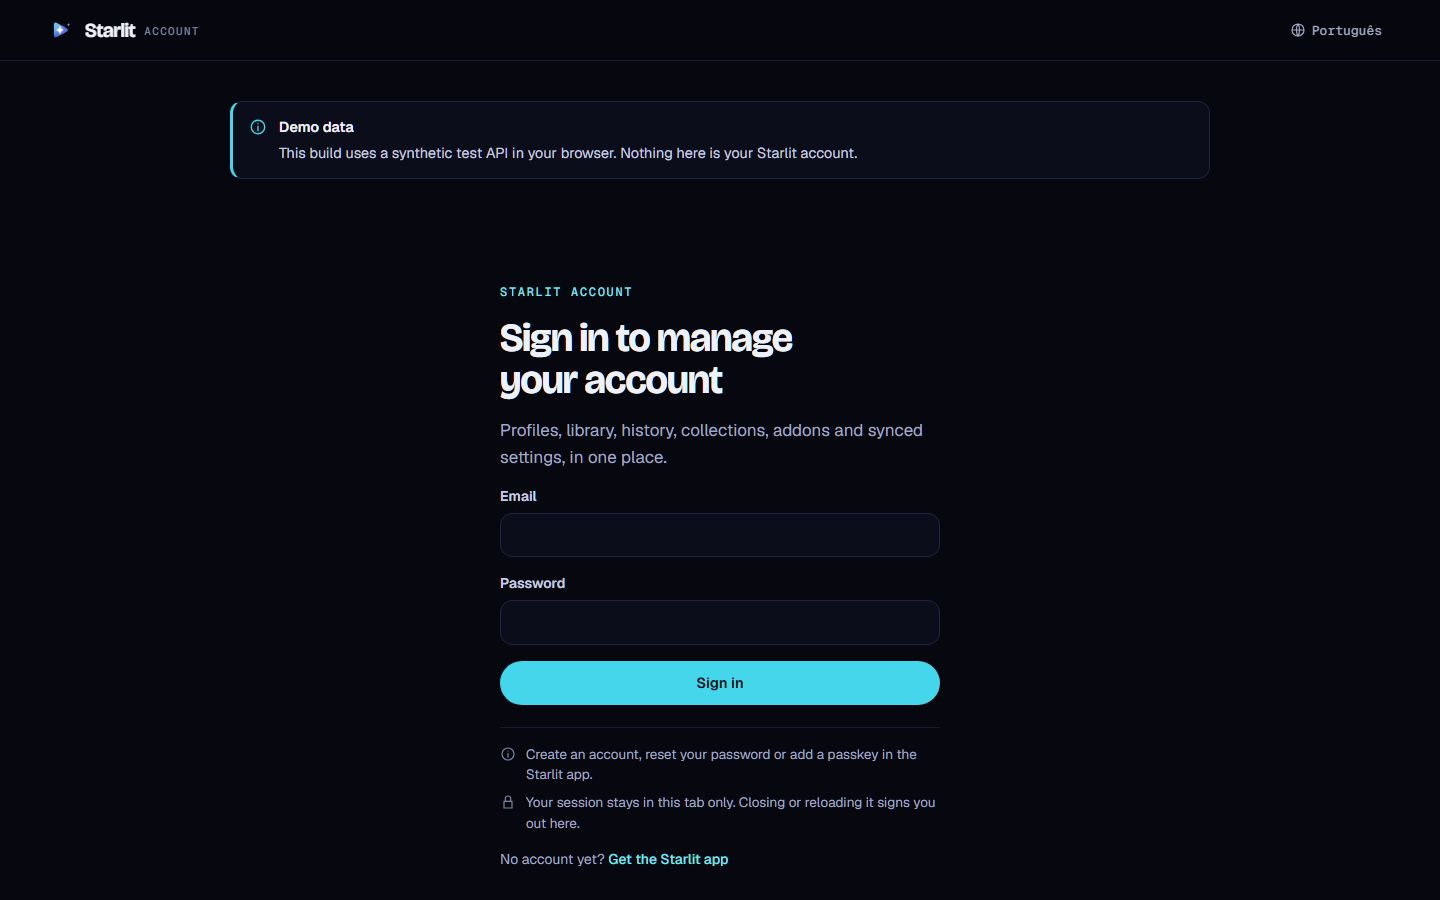
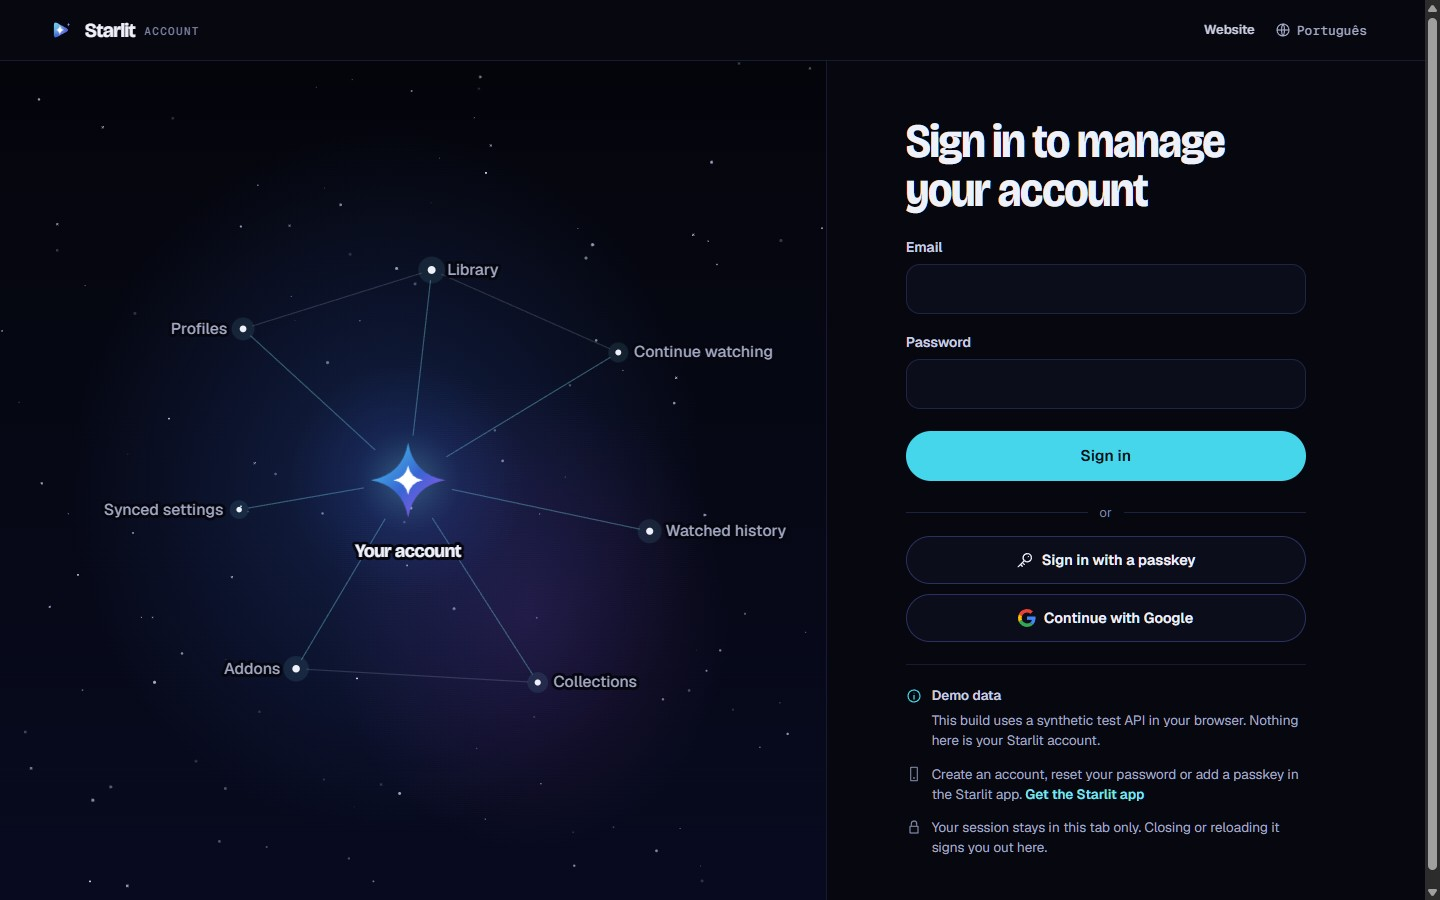
feat(account): add responsive constellation sign-in (#11)

diff --git a/account/src/styles/account.css b/account/src/styles/account.css
@@ -452,19 +452,104 @@ button, input, select, textarea { font: inherit; color: inherit; }
 .pv-square { aspect-ratio: 1; }
 .preview-large { display: grid; gap: 10px; }
 
-/* ------------------------------------------------------------ sign in, choose profile */
-.signin { display: grid; place-items: start center; min-height: calc(100dvh - 160px); padding: clamp(24px, 6vh, 96px) 0 32px; }
-.signin-card { width: 100%; max-width: 440px; display: grid; gap: 16px; }
-.signin-card .page-title { font-size: clamp(30px, 6vw, 40px); }
+/* ------------------------------------------------------------ sign in
+   The night sky is the one bold element; the form beside it stays quiet.
+   Phones: a short sky band above the form. 1024 px and up: the sky fills
+   the left of the screen and the form sits in a column on the right. */
+.main:has(> .view > .signin) { padding: 0; }
+.view:has(> .signin) { max-width: none; }
+.signin { display: grid; align-content: start; min-height: calc(100dvh - 61px); }
+
+.signin-sky {
+  position: relative;
+  overflow: hidden;
+  height: 176px;
+  margin: 16px var(--gutter) 0;
+  border: 1px solid var(--line);
+  border-radius: 22px;
+  background:
+    radial-gradient(55% 60% at 47% 50%, rgba(57, 101, 212, .26), transparent 70%),
+    radial-gradient(35% 40% at 64% 66%, rgba(178, 80, 239, .14), transparent 70%),
+    linear-gradient(180deg, #04050b 0%, #080b20 100%);
+}
+.sky-field { position: absolute; inset: 0; width: 100%; height: 100%; fill: #d3dcff; }
+.sky-map { position: absolute; left: 0; top: 50%; width: 100%; height: auto; transform: translateY(-50%); overflow: visible; }
+.sky-line { fill: none; stroke: rgba(127, 227, 242, .34); stroke-width: 1.2; stroke-linecap: round; }
+.sky-chord { stroke: rgba(162, 168, 195, .22); }
+.sky-halo { fill: #7fe3f2; fill-opacity: .1; }
+.sky-core { fill: #eef0fa; }
+/* A dark outline under each label keeps lines from running through the text. */
+.sky-label { display: none; fill: #a2a8c3; font: 500 16px var(--sans); letter-spacing: .005em; paint-order: stroke; stroke: #05060f; stroke-width: 6px; stroke-linejoin: round; }
+.sky-label-hub { fill: #eef0fa; font: 700 19px var(--display); letter-spacing: -.01em; }
+.sky-hub { transform-box: fill-box; transform-origin: center; }
+
+.signin-panel { display: grid; align-items: center; padding: 32px var(--gutter) 72px; }
+.signin-card { width: 100%; max-width: 400px; margin: 0 auto; display: grid; gap: 22px; }
+.signin-title { font-size: clamp(34px, 2vw + 22px, 48px); font-stretch: 92%; line-height: 1.02; letter-spacing: -.022em; }
 .signin-status:empty { display: none; }
-.signin-notes { display: grid; gap: 8px; margin-top: 6px; padding-top: 16px; border-top: 1px solid var(--line); font-size: 13.5px; color: var(--muted); }
+.signin-form { display: grid; gap: 18px; }
+.signin-form .input { min-height: 50px; padding: 12px 14px; border-radius: 14px; font-size: 16px; }
+.signin-form .btn { min-height: 50px; margin-top: 4px; font-size: 15.5px; }
+.signin-alt { display: grid; gap: 10px; }
+.signin-alt .btn { width: 100%; min-height: 48px; }
+.g-mark { flex: none; }
+.divider { display: flex; align-items: center; gap: 12px; margin-bottom: 4px; color: var(--dim); font-size: 13px; }
+.divider::before, .divider::after { content: ""; flex: 1; height: 1px; background: var(--line-2); }
+
+/* Notes and the shell's notices, set small under the form. */
+.signin-about { display: grid; gap: 14px; padding-top: 20px; border-top: 1px solid var(--line); }
+.signin-banners .banners { max-width: none; margin: 0; gap: 12px; }
+.signin-banners .notice { padding: 0; border: 0; border-radius: 0; background: none; gap: 10px; }
+.signin-banners .notice-warn, .signin-banners .notice-danger { padding: 12px 14px; border: 1px solid var(--edge); border-left-width: 3px; border-radius: 12px; background: var(--panel); }
+.signin-banners .notice-body { font-size: 13.5px; color: var(--muted); }
+.signin-banners .notice-title { color: var(--text-2); }
+.signin-banners .notice-icon .i { width: 16px; height: 16px; }
+.signin-notes { display: grid; gap: 12px; font-size: 13.5px; line-height: 1.5; color: var(--muted); }
 .signin-notes li { display: flex; gap: 10px; }
-.signin-notes .i { margin-top: 2px; color: var(--dim); }
-.signin-foot { font-size: 14px; color: var(--muted); }
-.divider { display: flex; align-items: center; gap: 10px; color: var(--dim); font-size: 13px; }
-.divider::before, .divider::after { content: ""; flex: 1; height: 1px; background: var(--line); }
-.signin-alt { gap: 10px; }
-.signin-alt .btn { width: 100%; }
+.signin-notes .i { flex: none; margin-top: 2px; color: var(--dim); }
+.signin-notes .text-link { display: inline; font-weight: 600; }
+
+@media (min-width: 640px) {
+  .signin-sky { height: 220px; }
+  .sky-map { left: 10%; width: 80%; }
+}
+@media (min-width: 1024px) {
+  .signin { grid-template-columns: minmax(0, 1fr) minmax(440px, 42%); }
+  /* The sky stays in view (under the 61 px top bar) while the form scrolls. */
+  .signin-sky { position: sticky; top: 61px; align-self: start; height: calc(100vh - 61px); height: calc(100dvh - 61px); margin: 0; border: 0; border-right: 1px solid var(--line); border-radius: 0; }
+  .sky-map { left: 3%; top: 6%; width: 94%; height: 88%; transform: none; }
+  /* The map scales with the panel, so labels are set larger where it's narrow. */
+  .sky-label { display: inline; font-size: 18px; }
+  .sky-label-hub { font-size: 21px; }
+  .signin-panel { padding: 56px clamp(40px, 5.5vw, 96px); }
+  .signin-card { margin: 0; }
+  /* The sky shows what the lede says; keep the words for screen readers. */
+  .signin-lede { position: absolute; width: 1px; height: 1px; overflow: hidden; clip-path: inset(50%); white-space: nowrap; }
+}
+@media (min-width: 1280px) {
+  .sky-label { font-size: 16px; }
+  .sky-label-hub { font-size: 19px; }
+}
+
+/* The one moment of motion: the constellation draws itself on arrival. */
+@media (prefers-reduced-motion: no-preference) {
+  .sky-line { stroke-dasharray: 1; stroke-dashoffset: 1; animation: sky-draw .9s var(--ease) forwards; }
+  .sky-star { opacity: 0; animation: sky-appear .6s var(--ease) forwards; }
+  .sky-hub { animation: sky-hub 1s var(--ease) both; }
+  /* Lines leave the hub one after another; each star lights as its line arrives. */
+  .sky-d1 { animation-delay: .2s; } .sky-d2 { animation-delay: .27s; } .sky-d3 { animation-delay: .34s; }
+  .sky-d4 { animation-delay: .41s; } .sky-d5 { animation-delay: .48s; } .sky-d6 { animation-delay: .55s; }
+  .sky-d7 { animation-delay: .62s; }
+  .sky-e1 { animation-delay: .75s; } .sky-e2 { animation-delay: .82s; } .sky-e3 { animation-delay: .89s; }
+  .sky-e4 { animation-delay: .96s; } .sky-e5 { animation-delay: 1.03s; } .sky-e6 { animation-delay: 1.1s; }
+  .sky-e7 { animation-delay: 1.17s; }
+  .sky-chord { animation-delay: 1.15s; }
+}
+@keyframes sky-draw { to { stroke-dashoffset: 0; } }
+@keyframes sky-appear { to { opacity: 1; } }
+@keyframes sky-hub { from { opacity: 0; transform: scale(.4) rotate(-45deg); } }
+
+/* ------------------------------------------------------------ choose profile */
 .choose { display: grid; gap: 14px; max-width: 760px; margin: 6vh auto 0; }
 .choose-grid { display: grid; gap: 12px; grid-template-columns: repeat(auto-fill, minmax(160px, 1fr)); margin-top: 14px; }
 .choose-card { display: grid; justify-items: center; gap: 8px; width: 100%; padding: 22px 12px; border: 1px solid var(--edge); border-radius: 18px; background: var(--panel); cursor: pointer; }

diff --git a/account/src/views/signin-sky.js b/account/src/views/signin-sky.js
@@ -1,0 +1,87 @@
+// The sign-in page's night sky: what a Starlit account keeps in sync, drawn
+// as a constellation around the Starlit star. It is decorative (the page's
+// heading and lede say the same in words), so it's hidden from screen readers.
+// Built as SVG elements, never parsed from strings.
+import { h } from '../lib/dom.js';
+import { t } from '../lib/i18n.js';
+
+const svg = (tag, props, ...children) => h(tag, { svg: true, ...props }, ...children);
+
+// Coordinates in a 640 × 600 box. The hub is the account; each star is a
+// section of it, labelled with the same words as the account's navigation.
+// Labels sit beside their star, so keep stars far enough from the edges for
+// the longest Portuguese label ("Definições sincronizadas").
+const HUB = [300, 300];
+const STARS = [
+  ['nav.profiles', 132, 146, 3.4],
+  ['nav.library', 324, 86, 4],
+  ['nav.progress', 514, 170, 3],
+  ['nav.history', 546, 352, 3.6],
+  ['nav.collections', 432, 506, 3.1],
+  ['nav.addons', 186, 492, 3.8],
+  ['nav.settings', 128, 330, 2.8],
+];
+// A few links between neighbours, so it reads as a constellation, not a wheel.
+const LINKS = [[0, 1], [1, 2], [4, 5]];
+
+// The background stars come from a fixed seed: every visit shows the same sky.
+function starField() {
+  let seed = 20261109;
+  const next = () => (seed = (seed * 1103515245 + 12345) & 0x7fffffff) / 0x7fffffff;
+  return svg('svg', { class: 'sky-field', viewBox: '0 0 800 800', preserveAspectRatio: 'xMidYMid slice', focusable: 'false' },
+    Array.from({ length: 120 }, () => svg('circle', {
+      cx: (next() * 800).toFixed(1), cy: (next() * 800).toFixed(1),
+      r: (0.35 + next() * 1.15).toFixed(2), 'fill-opacity': (0.15 + next() * 0.6).toFixed(2),
+    })));
+}
+
+// A line from a to b that stops short of both stars.
+function link([ax, ay], [bx, by], fromGap, toGap, cls) {
+  const length = Math.hypot(bx - ax, by - ay);
+  const ux = (bx - ax) / length, uy = (by - ay) / length;
+  const d = `M${(ax + ux * fromGap).toFixed(1)} ${(ay + uy * fromGap).toFixed(1)}L${(bx - ux * toGap).toFixed(1)} ${(by - uy * toGap).toFixed(1)}`;
+  return svg('path', { class: cls, d, pathLength: '1' });
+}
+
+// The four-point star from the Starlit mark, centred on 0,0.
+const SPARKLE = 'M0 -1Q.15 -.15 1 0Q.15 .15 0 1Q-.15 .15 -1 0Q-.15 -.15 0 -1Z';
+
+function constellation() {
+  const [hx, hy] = HUB;
+  const defs = svg('defs', {},
+    svg('linearGradient', { id: 'sky-hub-fill', x1: '0', y1: '0', x2: '1', y2: '1' },
+      svg('stop', { offset: '0', 'stop-color': '#45D6EB' }),
+      svg('stop', { offset: '.52', 'stop-color': '#3965D4' }),
+      svg('stop', { offset: '1', 'stop-color': '#B250EF' })),
+    svg('radialGradient', { id: 'sky-hub-glow' },
+      svg('stop', { offset: '0', 'stop-color': '#7fe3f2', 'stop-opacity': '.32' }),
+      svg('stop', { offset: '.45', 'stop-color': '#3965D4', 'stop-opacity': '.12' }),
+      svg('stop', { offset: '1', 'stop-color': '#3965D4', 'stop-opacity': '0' })));
+
+  const spokes = STARS.map(([, x, y, r], i) => link(HUB, [x, y], 46, r + 7, `sky-line sky-d${i + 1}`));
+  const chords = LINKS.map(([a, b]) => link(STARS[a].slice(1, 3), STARS[b].slice(1, 3), STARS[a][3] + 7, STARS[b][3] + 7,
+    'sky-line sky-chord'));
+
+  const stars = STARS.map(([key, x, y, r], i) => {
+    const left = x < hx;
+    return svg('g', { class: `sky-star sky-e${i + 1}` },
+      svg('circle', { class: 'sky-halo', cx: x, cy: y, r: (r * 3.4).toFixed(1) }),
+      svg('circle', { class: 'sky-core', cx: x, cy: y, r }),
+      svg('text', { class: 'sky-label', x: left ? x - 16 : x + 16, y: y + 5, 'text-anchor': left ? 'end' : 'start' }, t(key)));
+  });
+
+  const hub = svg('g', { transform: `translate(${hx} ${hy})` },
+    svg('circle', { class: 'sky-glow', r: '120', fill: 'url(#sky-hub-glow)' }),
+    svg('g', { class: 'sky-hub' },
+      svg('path', { d: SPARKLE, transform: 'scale(38)', fill: 'url(#sky-hub-fill)' }),
+      svg('path', { d: SPARKLE, transform: 'scale(15)', fill: '#ffffff' })),
+    svg('text', { class: 'sky-label sky-label-hub', y: '78', 'text-anchor': 'middle' }, t('signin.skyHub')));
+
+  // The view box leaves room either side for the labels.
+  return svg('svg', { class: 'sky-map', viewBox: '-90 30 790 540', focusable: 'false' },
+    defs, svg('g', {}, ...spokes, ...chords), ...stars, hub);
+}
+
+export function sky() {
+  return h('div', { class: 'signin-sky', 'aria-hidden': 'true' }, starField(), constellation());
+}

diff --git a/account/src/views/signin.js b/account/src/views/signin.js
@@ -1,8 +1,22 @@
 // Sign in. GoTrue checks the password; this page never stores it.
+// Layout: the night sky (signin-sky.js) on the left on wide screens, as a
+// band on top on phones; the form beside it. The shell's notices (read-only
+// mode, offline) are moved into [data-banners] below the form by app.js.
 import { h, icon } from '../lib/dom.js';
 import { t } from '../lib/i18n.js';
 import { state } from '../lib/state.js';
 import { button, field, input, notice } from '../lib/ui.js';
+import { sky } from './signin-sky.js';
+
+// Google's "G", as its sign-in branding asks for next to "Continue with Google".
+function googleMark() {
+  const path = (fill, d) => h('path', { svg: true, fill, d });
+  return h('svg', { class: 'g-mark', viewBox: '0 0 48 48', width: '18', height: '18', 'aria-hidden': 'true', focusable: 'false' },
+    path('#EA4335', 'M24 9.5c3.54 0 6.71 1.22 9.21 3.6l6.85-6.85C35.9 2.38 30.47 0 24 0 14.62 0 6.51 5.38 2.56 13.22l7.98 6.19C12.43 13.72 17.74 9.5 24 9.5z'),
+    path('#4285F4', 'M46.98 24.55c0-1.57-.15-3.09-.38-4.55H24v9.02h12.94c-.58 2.96-2.26 5.48-4.78 7.18l7.73 6c4.51-4.18 7.09-10.36 7.09-17.65z'),
+    path('#FBBC05', 'M10.53 28.59c-.48-1.45-.76-2.99-.76-4.59s.27-3.14.76-4.59l-7.98-6.19C.92 16.46 0 20.12 0 24c0 3.88.92 7.54 2.56 10.78l7.97-6.19z'),
+    path('#34A853', 'M24 48c6.48 0 11.93-2.13 15.89-5.81l-7.73-6c-2.15 1.45-4.92 2.3-8.16 2.3-6.26 0-11.57-4.22-13.47-9.91l-7.98 6.19C6.51 42.62 14.62 48 24 48z'));
+}
 
 export default {
   title: () => t('signin.title'),
@@ -15,6 +29,7 @@ export default {
     const submit = button(t('signin.submit'), { variant: 'accent', type: 'submit' });
     submit.classList.add('btn-block');
     const googleButton = ctx.config.googleSignIn ? button(t('signin.google'), { onClick: google }) : null;
+    googleButton?.prepend(googleMark());
     const passkeyButton = ctx.config.passkeySignIn ? button(t('signin.passkey'), { icon: 'key', onClick: passkey }) : null;
 
     const reason = state.signOutReason;
@@ -73,19 +88,21 @@ export default {
     }
 
     return h('section', { class: 'signin' },
-      h('div', { class: 'signin-card' },
-        h('p', { class: 'eyebrow' }, t('signin.eyebrow')),
-        h('h1', { class: 'page-title', tabindex: '-1' }, t('signin.title')),
-        h('p', { class: 'lede' }, t('signin.lede')),
-        status,
-        h('form', { class: 'stack', novalidate: true, onsubmit: onSubmit }, emailField, passwordField, submit),
-        googleButton || passkeyButton ? h('div', { class: 'stack-s signin-alt' },
-          h('p', { class: 'divider' }, h('span', {}, t('signin.or'))),
-          passkeyButton, googleButton) : null,
-        h('ul', { role: 'list', class: 'signin-notes' },
-          h('li', {}, icon('info', { size: 16 }), h('span', {}, t('signin.noteApp'))),
-          h('li', {}, icon('lock', { size: 16 }), h('span', {}, t('signin.noteMemory')))),
-        h('p', { class: 'signin-foot' }, t('signin.noAccount'), ' ',
-          h('a', { href: `${ctx.config.siteUrl}/download/`, class: 'text-link' }, t('signin.getApp')))));
+      sky(),
+      h('div', { class: 'signin-panel' },
+        h('div', { class: 'signin-card' },
+          h('h1', { class: 'page-title signin-title', tabindex: '-1' }, t('signin.title')),
+          h('p', { class: 'lede signin-lede' }, t('signin.lede')),
+          status,
+          h('form', { class: 'signin-form', novalidate: true, onsubmit: onSubmit }, emailField, passwordField, submit),
+          googleButton || passkeyButton ? h('div', { class: 'signin-alt' },
+            h('p', { class: 'divider' }, h('span', {}, t('signin.or'))),
+            passkeyButton, googleButton) : null,
+          h('div', { class: 'signin-about' },
+            h('div', { class: 'signin-banners', 'data-banners': '' }),
+            h('ul', { role: 'list', class: 'signin-notes' },
+              h('li', {}, icon('phone', { size: 16 }), h('span', {}, t('signin.noteApp'), ' ',
+                h('a', { href: `${ctx.config.siteUrl}/download/`, class: 'text-link' }, t('signin.getApp')))),
+              h('li', {}, icon('lock', { size: 16 }), h('span', {}, t('signin.noteMemory'))))))));
   },
 };

diff --git a/account/src/lib/strings.js b/account/src/lib/strings.js
@@ -32,7 +32,7 @@ const en = {
   'error.conflict.title': 'Changed on another device', 'error.conflict.body': 'Reload to see the latest version.',
   'error.aborted.title': 'Cancelled', 'error.aborted.body': 'The request was cancelled.',
 
-  'signin.eyebrow': 'Starlit account', 'signin.title': 'Sign in to manage your account',
+  'signin.title': 'Sign in to manage your account', 'signin.skyHub': 'Your account',
   'signin.lede': 'Profiles, library, history, collections, addons and synced settings, in one place.',
   'signin.email': 'Email', 'signin.password': 'Password', 'signin.submit': 'Sign in', 'signin.working': 'Signing in…',
   'signin.emailRequired': 'Enter your email.', 'signin.passwordRequired': 'Enter your password.',
@@ -44,7 +44,7 @@ const en = {
   'signin.passkeyUnsupported': 'This browser cannot use Starlit passkeys. Try Chrome, Safari or your password.',
   'signin.noteApp': 'Create an account, reset your password or add a passkey in the Starlit app.',
   'signin.noteMemory': 'Your session stays in this tab only. Closing or reloading it signs you out here.',
-  'signin.noAccount': 'No account yet?', 'signin.getApp': 'Get the Starlit app',
+  'signin.getApp': 'Get the Starlit app',
 
   'choose.eyebrow': 'Signed in', 'choose.title': 'Which profile do you want to manage?',
   'choose.lede': 'Nothing from a profile is loaded until you pick it. PIN-protected profiles ask for their PIN first.',
@@ -302,7 +302,7 @@ const pt = {
   'error.conflict.title': 'Alterado noutro dispositivo', 'error.conflict.body': 'Recarrega para ver a versão mais recente.',
   'error.aborted.title': 'Cancelado', 'error.aborted.body': 'O pedido foi cancelado.',
 
-  'signin.eyebrow': 'Conta Starlit', 'signin.title': 'Inicia sessão para gerir a tua conta',
+  'signin.title': 'Inicia sessão para gerir a tua conta', 'signin.skyHub': 'A tua conta',
   'signin.lede': 'Perfis, biblioteca, histórico, coleções, addons e definições sincronizadas, num só lugar.',
   'signin.email': 'Email', 'signin.password': 'Palavra-passe', 'signin.submit': 'Iniciar sessão', 'signin.working': 'A iniciar sessão…',
   'signin.emailRequired': 'Escreve o teu email.', 'signin.passwordRequired': 'Escreve a tua palavra-passe.',
@@ -314,7 +314,7 @@ const pt = {
   'signin.passkeyUnsupported': 'Este navegador não suporta as chaves de acesso Starlit. Usa o Chrome, Safari ou a palavra-passe.',
   'signin.noteApp': 'Cria conta, repõe a palavra-passe ou adiciona uma chave de acesso na aplicação Starlit.',
   'signin.noteMemory': 'A sessão fica só neste separador. Fechá-lo ou recarregá-lo termina a sessão aqui.',
-  'signin.noAccount': 'Ainda não tens conta?', 'signin.getApp': 'Obtém a aplicação Starlit',
+  'signin.getApp': 'Obtém a aplicação Starlit',
 
   'choose.eyebrow': 'Sessão iniciada', 'choose.title': 'Que perfil queres gerir?',
   'choose.lede': 'Nada de um perfil é carregado até o escolheres. Os perfis com PIN pedem-no primeiro.',

diff --git a/account/src/app.js b/account/src/app.js
@@ -260,6 +260,11 @@ function mount(route, view, params, query = new URLSearchParams()) {
   renderShell();
   const el = view.render(ctx);
   replace(viewHost, el);
+  // A view can give the shell's notices a place of its own (sign-in shows
+  // them under the form); otherwise they sit above the view.
+  const slot = el.querySelector?.('[data-banners]');
+  if (slot) slot.append(banners);
+  else if (banners.parentNode !== main) main.prepend(banners);
   ctx.setTitle(view.title?.(ctx) ?? 'Starlit');
   // Move focus to the page heading so keyboard and screen-reader users land on the new page.
   requestAnimationFrame(() => (viewHost.querySelector('.page-title') ?? main).focus({ preventScroll: false }));

diff --git a/account/src/lib/dom.js b/account/src/lib/dom.js
@@ -66,6 +66,7 @@ const PATHS = {
   profiles: 'M9 11a4 4 0 1 0 0-8 4 4 0 0 0 0 8zM2 21a7 7 0 0 1 14 0M17 11a3 3 0 1 0 0-6M22 21a6 6 0 0 0-4-5.6',
   security: 'M12 3 4 6v6c0 5 3.5 8 8 9 4.5-1 8-4 8-9V6z M9 12l2 2 4-4',
   lock: 'M6 11h12v10H6zM8 11V7a4 4 0 0 1 8 0v4',
+  key: 'M15 3.5a5.5 5.5 0 1 0 0 11 5.5 5.5 0 0 0 0-11zM11.1 12.9 3 21M6 18l2.5 2.5M8.5 15.5 11 18M16.5 7.5h.01',
   unlock: 'M6 11h12v10H6zM8 11V7a4 4 0 0 1 7.5-2',
   up: 'M12 19V5M5 12l7-7 7 7',
   down: 'M12 5v14M19 12l-7 7-7-7',

diff --git a/account/docs/DESIGN.md b/account/docs/DESIGN.md
@@ -73,6 +73,29 @@ design). Everything has to be done in the app on each device.
   the save bar and the editor footer stay at the bottom where a thumb can
   reach them. The E2E tests check that nothing scrolls sideways on any page.
 
+## The sign-in screen
+
+The first thing people see, so it carries the one bold element of the app:
+a night sky in which the account is the brightest star (the four-point star
+and gradient of the Starlit mark), connected to stars named after what the
+account manages: Profiles, Library, Continue watching, Watched history,
+Collections, Addons, Synced settings. These are the navigation's own words,
+so the picture previews what's behind the form. It's inline SVG built with
+`h()` (no HTML strings), hidden from screen readers (the lede says the same),
+and its lines draw in once on arrival unless reduced motion is on.
+
+* **1024 px and up.** The sky fills the left of the screen and stays in view
+  while the form column on the right scrolls. The form is left-aligned, with
+  50 px fields and buttons.
+* **Below 1024 px.** The sky becomes a 176–220 px band above the heading,
+  without labels, and the lede is shown under the heading.
+* **Quiet details.** No eyebrow label above the heading. The passkey button
+  has a key icon and Google's "G" sits next to "Continue with Google". The
+  shell's notices (read-only mode, offline) appear small under the form
+  instead of above the page (`[data-banners]` in the view), and the notes
+  about creating an account in the app and the tab-only session sit with
+  them.
+
 ## The collection editor
 
 A full page instead of a long modal: **Start → Basics → Folders and sources →
